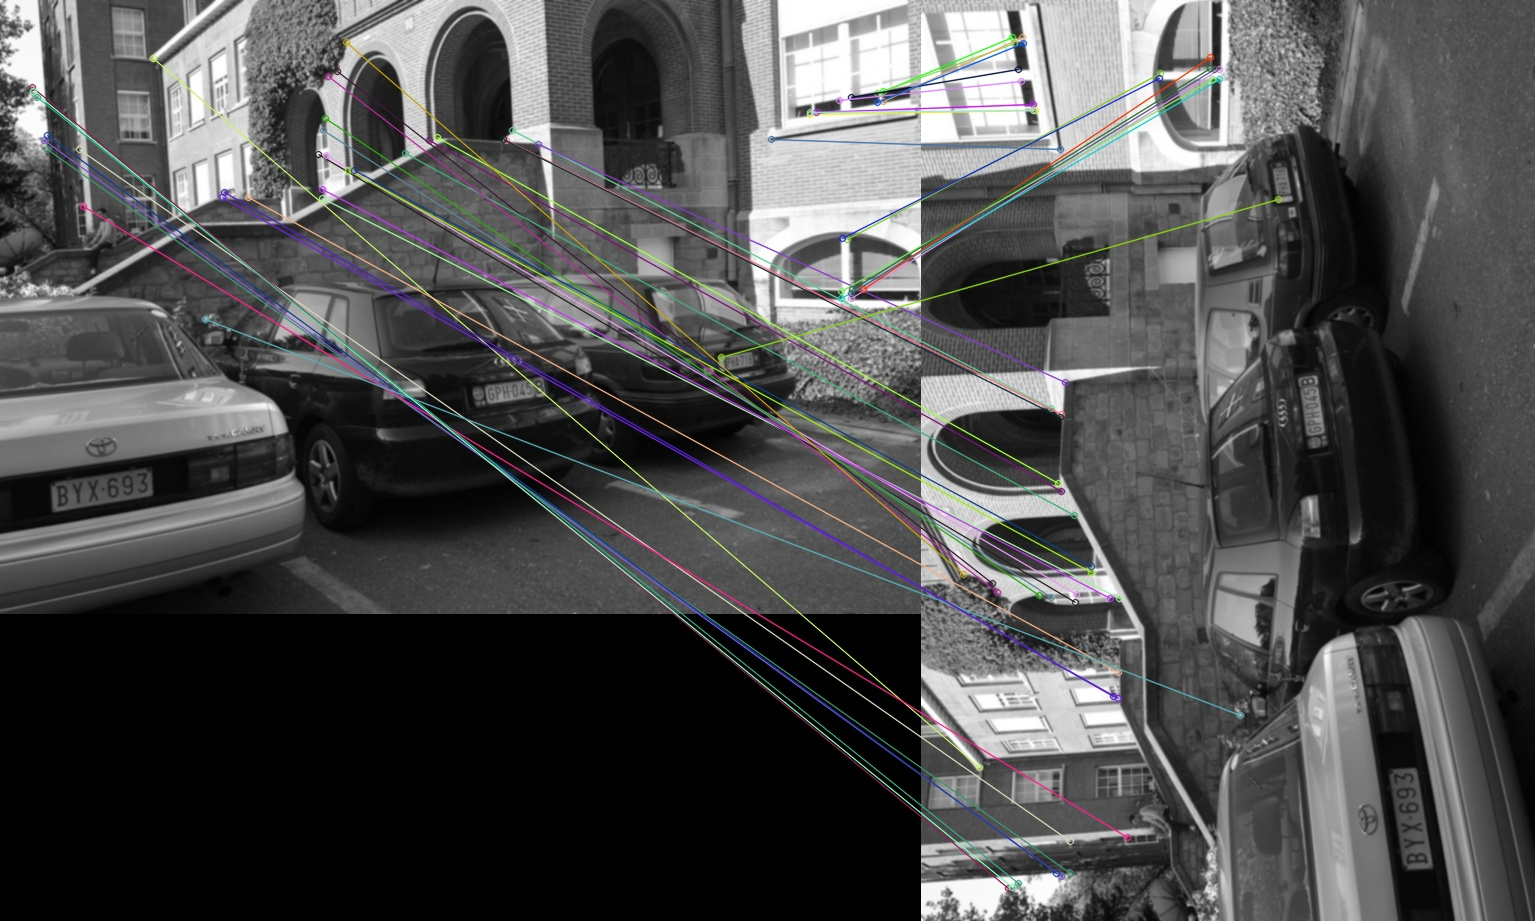
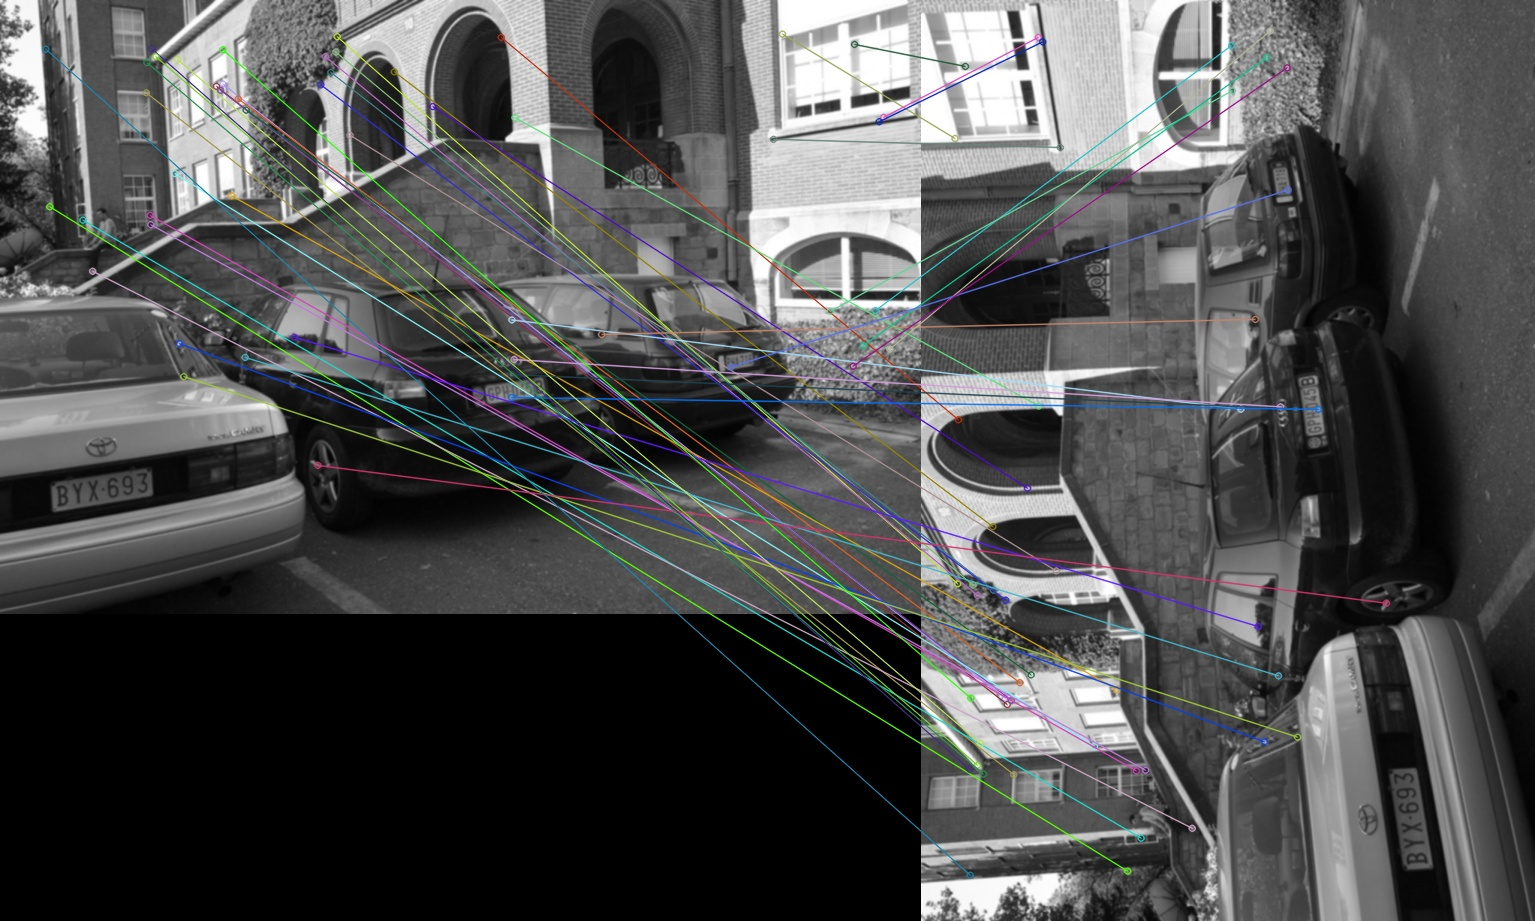
Add rotation resistance

diff --git a/filters/object_detection/keypoints_metrics.py b/filters/object_detection/keypoints_metrics.py
@@ -47,7 +47,7 @@ def match_keypoints(detector, img1, img2, matched_img_name, matching_threshold=0
     return matched_percentage
 
 
-def generate_dataset(img): 
+def generate_rotated_dataset(img): 
     
     images = [] 
 
@@ -96,21 +96,26 @@ if __name__ == '__main__':
     matched_img_name    = 'akaze_matched_images.jpg'
 
     # Create Detector Objects
-    orb     = cv2.ORB_create()
-    sift    = cv2.SIFT_create()
-    akaze   = cv2.AKAZE_create()
+    sift        = cv2.SIFT_create()
+    orb         = cv2.ORB_create()
+    akaze       = cv2.AKAZE_create()
+    detectors   = [sift, orb, akaze]
 
     # Generate dataset 
     original_img = cv2.imread(original_img_path) 
-    transformed_imgs = generate_dataset(original_img)
+    transformed_imgs = generate_rotated_dataset(original_img)
 
     # Get Metrics
-    matched_percentages = []
+    matched_percentages_by_detector = []
+    for detector in detectors: 
 
-    for img in transformed_imgs:        
-        # Match Keypoints
-        matched_percentages.append(match_keypoints(orb, original_img, img, matched_img_name))
+        matched_percentages = []
+        for img in transformed_imgs:        
+            # Match Keypoints
+            matched_percentages.append(match_keypoints(detector, original_img, img, matched_img_name))
+
+        matched_percentages_by_detector.append(matched_percentages)
 
     # Plot Rotation Resistance 
-    plot_metric(['10', '20', '30'], [matched_percentages, matched_percentages, matched_percentages], "Rotation Resistance", "Grades", "Matched Percentage", ['SIFT','ORB', 'AKAZE'] )
+    plot_metric(['90', '180', '270'], [matched_percentages, matched_percentages, matched_percentages], "Rotation Resistance", "Grades", "Matched Percentage", ['SIFT','ORB', 'AKAZE'] )
 
